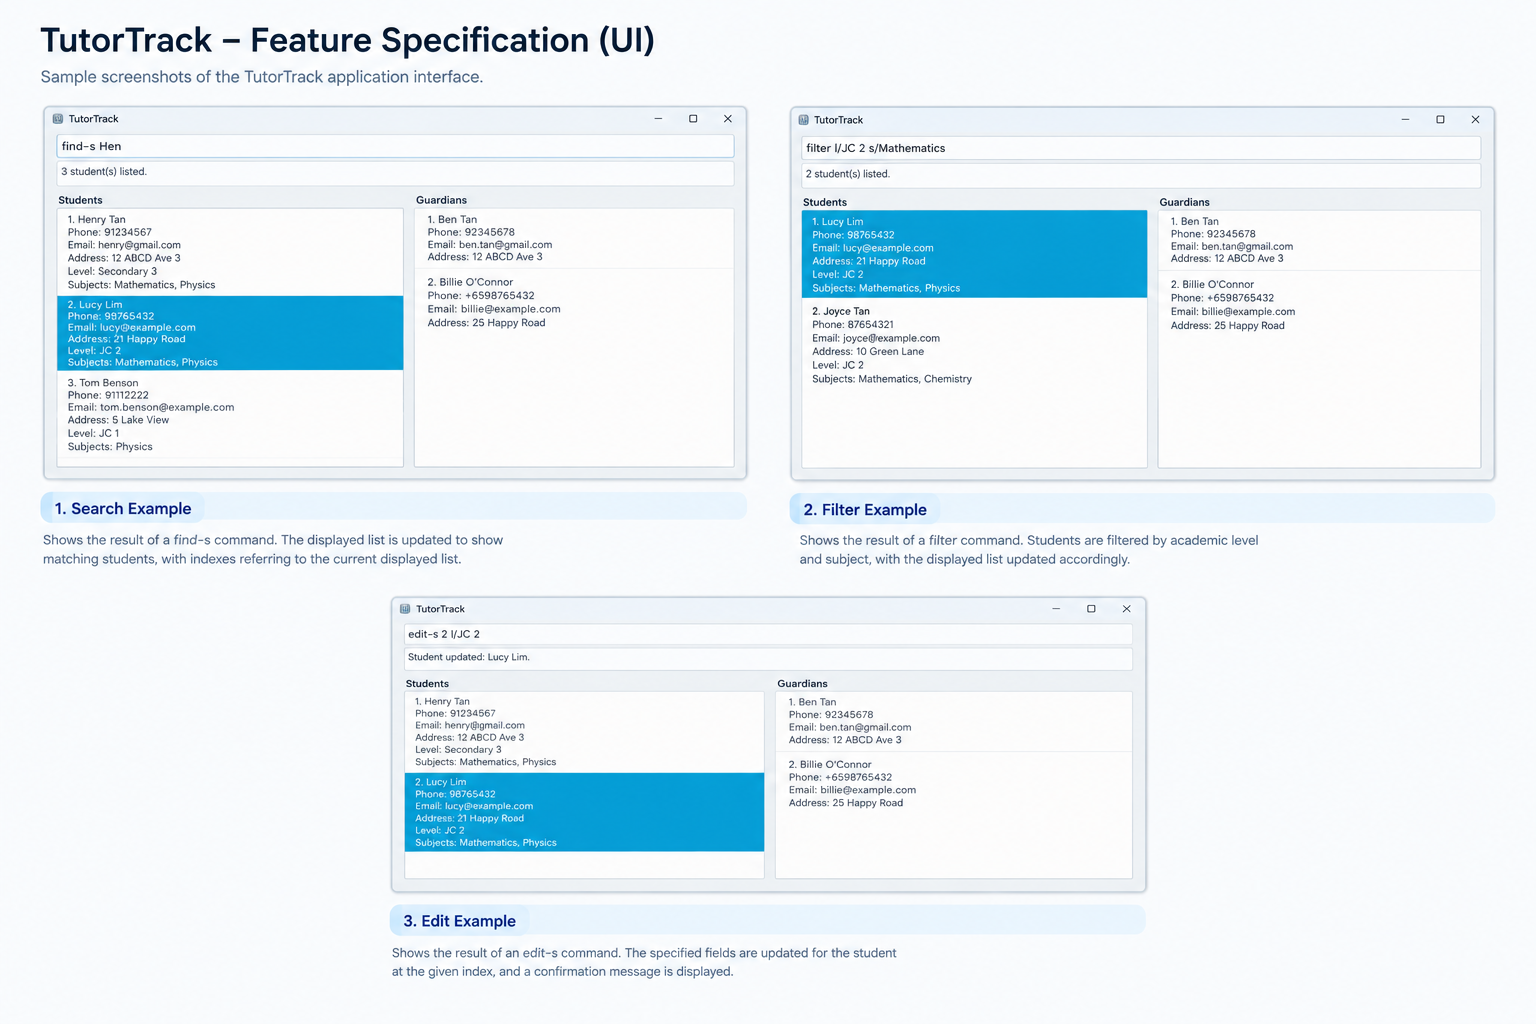
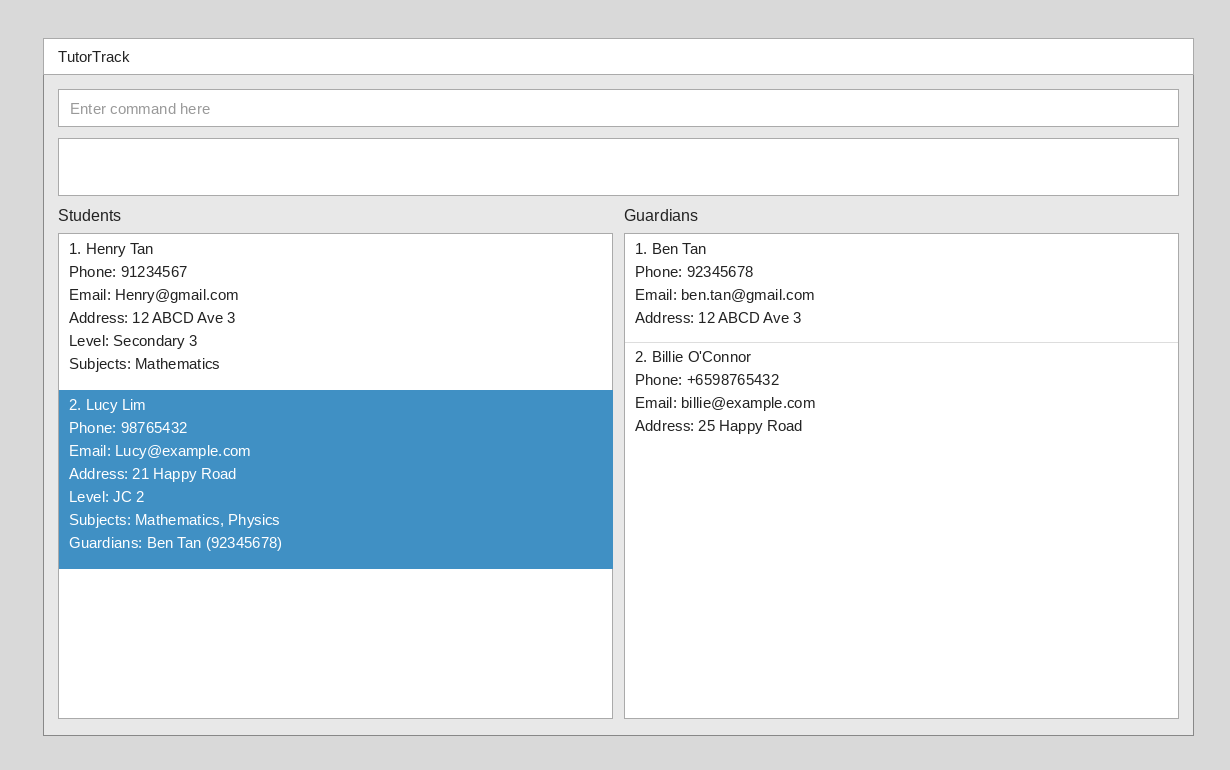
Update README, site layout and UI mockup for TutorTrack

diff --git a/README.md b/README.md
@@ -1,18 +1,20 @@
-[![CI Status](https://github.com/se-edu/addressbook-level3/workflows/Java%20CI/badge.svg)](https://github.com/se-edu/addressbook-level3/actions)
+[![CI Status](https://github.com/AY2627S1-CS2103T-T15-3/tp/actions/workflows/gradle.yml/badge.svg)](https://github.com/AY2627S1-CS2103T-T15-3/tp/actions/workflows/gradle.yml)
 
 
 # TutorTrack
 
 ![Ui](docs/images/Ui.png)
 
-* This is a **desktop application for tutors** to manage their students and guardians.
+* This is a **desktop application for private tutors** to manage their students and guardians in one place.
 
   * It allows tutors to store and manage contact details and academic information.
   * It supports relationships between students and their guardians.
   * It provides search and filtering features to help tutors quickly find relevant contacts.
+  
 * TutorTrack is **written in an object-oriented programming (OOP) style** and is designed as an ongoing software project.
 * The application uses a **command-based interface** for managing contacts efficiently.
-* For the detailed documentation of this project, see the documentation in the `docs/` directory.
+* For the detailed documentation of this project, see the [TutorTrack Product Website](https://ay2627s1-cs2103t-t15-3.github.io/tp/).
+This includes documentation related to the product requirements, features, and development of TutorTrack.
 
 ## Features
 
@@ -39,86 +41,6 @@ Tutors can store guardian contact details including:
 * Address
 
 Guardians can be added, edited, removed, and searched independently from students.
-
-### Guardian-Student Relationships
-
-TutorTrack supports relationships between students and guardians.
-
-* A student can have multiple guardians.
-* A guardian can be linked to multiple students, such as siblings.
-* Guardians are added separately and can then be linked to students using `link-g`.
-
-### Search and Filter
-
-Tutors can find contacts using partial name searches.
-
-Students can also be filtered by:
-
-* Academic level
-* Subject
-* A combination of academic level and subjects
-
-The displayed list is used for index-based commands such as editing, removing, and linking contacts.
-
-## Commands
-
-| Command         | Format                                                                           | Description                              |
-| --------------- | -------------------------------------------------------------------------------- | ---------------------------------------- |
-| Add student     | `add-s n/NAME p/PHONE e/EMAIL a/ADDRESS l/LEVEL s/SUBJECT [s/SUBJECT]...`        | Adds a new student                       |
-| Add guardian    | `add-g n/NAME p/PHONE e/EMAIL a/ADDRESS`                                         | Adds a new guardian                      |
-| Edit student    | `edit-s INDEX [n/NAME] [p/PHONE] [e/EMAIL] [a/ADDRESS] [l/LEVEL] [s/SUBJECT]...` | Edits an existing student                |
-| Edit guardian   | `edit-g INDEX [n/NAME] [p/PHONE] [e/EMAIL] [a/ADDRESS]`                          | Edits an existing guardian               |
-| Remove student  | `remove-s INDEX`                                                                 | Removes a student                        |
-| Remove guardian | `remove-g INDEX`                                                                 | Removes a guardian                       |
-| Link guardian   | `link-g STUDENT_INDEX g/GUARDIAN_INDEX`                                          | Links a guardian to a student            |
-| Find student    | `find-s NAME`                                                                    | Finds students by name                   |
-| Find guardian   | `find-g NAME`                                                                    | Finds guardians by name                  |
-| Filter students | `filter [l/LEVEL] [s/SUBJECT]...`                                                | Filters students by level and/or subject |
-| List students   | `list-s`                                                                         | Displays all students                    |
-| List guardians  | `list-g`                                                                         | Displays all guardians                   |
-
-## Input Validation
-
-TutorTrack validates contact information to prevent invalid records.
-
-* Names must be 1–100 characters and may contain alphanumeric characters, spaces, hyphens and apostrophes.
-* Phone numbers must contain 3–15 digits and may optionally start with `+`.
-* Emails must follow the required local-part@domain format.
-* Addresses must be 1–200 characters and may contain common address punctuation.
-* Academic levels must be 1–50 characters and may contain alphanumeric characters and spaces.
-* Subjects must be 1–50 characters and may contain alphanumeric characters, spaces, hyphens and parentheses.
-
-Names, academic levels and subjects are compared case-insensitively.
-
-## Duplicate Contacts
-
-Two students are considered duplicates if their normalised names and phone numbers are identical.
-
-The same rule applies independently to guardians.
-
-A student and a guardian may have the same phone number.
-
-## Displayed List
-
-TutorTrack maintains a **displayed list** for students and guardians.
-
-Commands such as `find-s` and `filter` change the displayed student list. Index-based commands such as `edit-s`, `remove-s`, and `link-g` then use the indexes from that displayed list.
-
-For example:
-
-```text
-find-s Henry
-```
-
-After searching, the indexes shown correspond to the matching students.
-
-The `list-s` and `list-g` commands restore their respective full lists.
-
-## Documentation
-
-The project documentation is available in the `docs/` directory.
-
-This includes documentation related to the product requirements, features, and development of TutorTrack.
 
 ## Acknowledgements
 

diff --git a/docs/index.md b/docs/index.md
@@ -3,17 +3,17 @@
   title: ""
 ---
 
-# AddressBook Level-3
+# TutorTrack
 
-[![CI Status](https://github.com/se-edu/addressbook-level3/workflows/Java%20CI/badge.svg)](https://github.com/se-edu/addressbook-level3/actions)
+[![CI Status](https://github.com/AY2627S1-CS2103T-T15-3/tp/actions/workflows/gradle.yml/badge.svg)](https://github.com/AY2627S1-CS2103T-T15-3/tp/actions/workflows/gradle.yml)
 [![codecov](https://codecov.io/gh/AY2627S1-CS2103T-T15-3/tp/graph/badge.svg?token=YF8S09NZWT)](https://codecov.io/gh/AY2627S1-CS2103T-T15-3/tp)
 
 ![Ui](images/Ui.png)
 
-**AddressBook is a desktop application for managing your contact details.** While it has a GUI, most of the user interactions happen using a CLI (Command Line Interface).
+**TutorTrack is a desktop application for private tutors to manage students, guardians, lessons, fees, and progress notes in one place.** While it has a GUI, most of the user interactions happen using a CLI (Command Line Interface).
 
-* If you are interested in using AddressBook, head over to the [_Quick Start_ section of the **User Guide**](UserGuide.html#quick-start).
-* If you are interested in developing AddressBook, the [**Developer Guide**](DeveloperGuide.html) is a good place to start.
+* If you are interested in using TutorTrack, head over to the [_Quick Start_ section of the **User Guide**](UserGuide.html#quick-start).
+* If you are interested in developing TutorTrack, the [**Developer Guide**](DeveloperGuide.html) is a good place to start.
 
 
 **Acknowledgements**

diff --git a/docs/_markbind/layouts/default.md b/docs/_markbind/layouts/default.md
@@ -9,7 +9,7 @@
     <li><a href="{{baseUrl}}/UserGuide.html" class="nav-link">User Guide</a></li>
     <li><a href="{{baseUrl}}/DeveloperGuide.html" class="nav-link">Developer Guide</a></li>
     <li><a href="{{baseUrl}}/AboutUs.html" class="nav-link">About Us</a></li>
-    <li><a href="https://github.com/se-edu/addressbook-level3" target="_blank" class="nav-link"><md>:fab-github:</md></a>
+    <li><a href="https://github.com/AY2627S1-CS2103T-T15-3/tp" target="_blank" class="nav-link"><md>:fab-github:</md></a>
     </li>
     <li slot="right">
       <form class="navbar-form">
